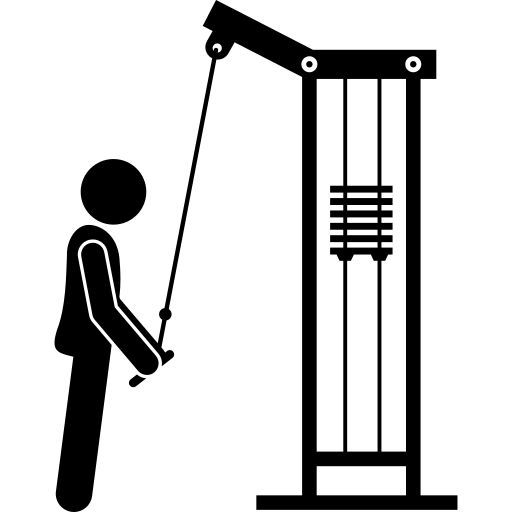
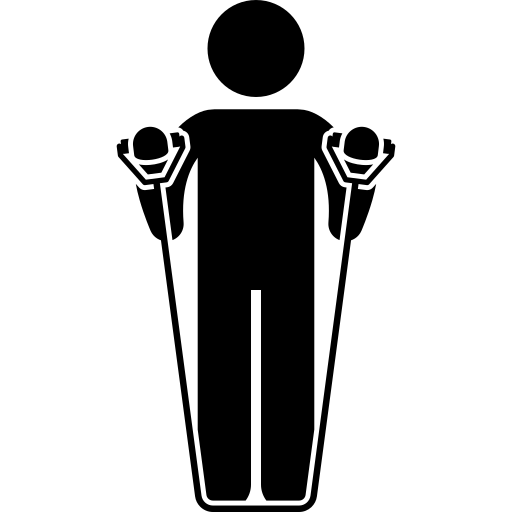
added exercises

diff --git a/index.html b/index.html
@@ -633,20 +633,20 @@
     gap: 2px;
   }
   .sheet-card .last-session {
-    font-size: 9px;
+    font-size: 11px;
     white-space: nowrap;
     overflow: hidden;
     text-overflow: ellipsis;
     max-width: 100%;
   }
   .sheet-card .toggle-btn {
-    font-size: 9px;
+    font-size: 11px;
   }
   .sheet-card .ex-history-expanded {
     padding: 0 10px 8px;
   }
-  .sheet-card .history-row .h-date { font-size: 9px; }
-  .sheet-card .history-row .h-val  { font-size: 9px; }
+  .sheet-card .history-row .h-date { font-size: 11px; }
+  .sheet-card .history-row .h-val  { font-size: 11px; }
 
   /* ── util ── */
   .divider { height: 1px; background: var(--border-lt); margin: 0 20px; }
@@ -1005,7 +1005,7 @@
 ═══════════════════════════════════════════════ */
 const EXERCISES = [
    // ── Chest ──
-  { id: "converging_bench_press", name: "Converging Bench Press", category: "Chest",     icon: "icons/converging_bench_press.png" },
+  { id: "converging_chest_press", name: "Converging Chest Press", category: "Chest",     icon: "icons/converging_bench_press.png" },
   { id: "chest_fly",              name: "Dumbbell Chest Fly",     category: "Chest",     icon: "icons/chest_fly.png" },
   { id: "pec_fly",                name: "Machine Pec Fly",        category: "Chest",     icon: "icons/pec_fly.png" },
   { id: "pushups",                name: "Pushups",                category: "Chest",     icon: "icons/push-up.png",          type: "count" },
@@ -1015,7 +1015,7 @@ const EXERCISES = [
   { id: "seated_row",             name: "Diverging Seated Row",   category: "Back",      icon: "icons/seated-row.png" },
   { id: "back_fly",               name: "Dumbbell Reverse Fly",   category: "Back",      icon: "icons/back_fly.png" },
   // ── Shoulders ──
-  { id: "ohp",                    name: "Diverging Shoulder Press", category: "Shoulders", icon: "icons/shoulder-press.png" },
+  { id: "shoulder_press",                    name: "Converging Shoulder Press", category: "Shoulders", icon: "icons/shoulder-press.png" },
   //{ id: "cable_front_raise",      name: "Cable Front Raise",        category: "Shoulders", icon: "icons/cable_front_raise.png" },
   { id: "cable_punch",            name: "Cable Punch",              category: "Shoulders", icon: "icons/cable_punch.png" },
   // ── Arms ──
@@ -1027,14 +1027,16 @@ const EXERCISES = [
   { id: "leg_press",              name: "Leg Press",              category: "Legs",      icon: "icons/leg-press-machine.png" },
   { id: "outer_thigh",            name: "Outer Thigh",            category: "Legs",      icon: "icons/abductor.png" },
   { id: "inner_thigh",            name: "Inner Thigh",            category: "Legs",      icon: "icons/adductor.png" },
-  { id: "squats",                 name: "Squats",                 category: "Legs",      icon: "icons/squats.png",          type: "count" },
+  { id: "squats",                 name: "Squats",                 category: "Legs",      icon: "icons/squat.png",          type: "count" },
   { id: "lunges",                 name: "Lunges",                 category: "Legs",      icon: "icons/lunges.png",          type: "count" },
+  { id: "weighted_squat",         name: "Weighted Squat",         category: "Legs",      icon: "icons/squats.png",          type: "count" },
   // ── Core ──
   { id: "plank",                  name: "Plank",                  category: "Core",      icon: "icons/plank.png",           type: "timed" },
+  { id: "side_plank",             name: "Side Plank",             category: "Core",      icon: "icons/side-plank.png",           type: "timed" },
   // ── Cardio ──
-  { id: "rowing",                 name: "Rowing",                 category: "Cardio",    icon: "icons/rowing.png",          fields: ["duration", "distance"] },
+  { id: "rowing",                 name: "Rowing",                 category: "Cardio",    icon: "icons/rowing.png",          fields: ["duration", "distance", "rounds"] },
   { id: "elliptical",             name: "Elliptical",             category: "Cardio",    icon: "icons/elliptical.png",      fields: ["duration", "distance"] },
-  { id: "treadmill",              name: "Treadmill",              category: "Cardio",    icon: "icons/treadmill.png",       fields: ["duration", "distance"] },
+  { id: "treadmill",              name: "Treadmill",              category: "Cardio",    icon: "icons/treadmill.png",       fields: ["duration", "distance", "rounds", "notes"] },
   // ── Class ──
   { id: "pilates",                name: "Pilates",                category: "Core",      icon: "icons/pilates.png", "type":"class" },
   { id: "yoga",                   name: "Yoga",                   category: "Core",      icon: "icons/yoga.png", "type":"class" },
@@ -1211,7 +1213,7 @@ function hasData(id) {
   if (!d) return false;
   const ex = exerciseMap[id];
   if (ex && ex.type === 'class') return !!d.done;
-  return !!(d.sets || d.reps || d.weight || d.duration || d.distance);
+  return !!(d.sets || d.reps || d.weight || d.duration || d.distance || d.rounds || d.notes);
 }
 
 function updateCatCount(cat) {
@@ -1233,6 +1235,8 @@ function renderSheetCard(ex, container) {
   const isCount = ex.type === 'count';
   const isClass = ex.type === 'class';
   const hasDistance = Array.isArray(ex.fields) && ex.fields.includes('distance');
+  const hasRounds   = Array.isArray(ex.fields) && ex.fields.includes('rounds');
+  const hasNotes    = Array.isArray(ex.fields) && ex.fields.includes('notes');
 
   const iconHtml = ex.icon.startsWith('http') || ex.icon.startsWith('/') || ex.icon.startsWith('data:') || ex.icon.startsWith('icons/')
     ? `<img src="${ex.icon}" alt="">`
@@ -1244,6 +1248,8 @@ function renderSheetCard(ex, container) {
       const parts = [];
       if (h.duration) parts.push(h.duration);
       if (h.distance) parts.push(`${h.distance}km`);
+      if (h.rounds) parts.push(`${h.rounds}r`);
+      if (h.notes) parts.push(h.notes);
       return parts.length ? parts.join(' · ') : '—';
     }
     if (isCount) {
@@ -1290,7 +1296,7 @@ function renderSheetCard(ex, container) {
         </div>
       </div>`
     : isTimed
-    ? `<div class="exercise-inputs" style="grid-template-columns:${hasDistance ? '1fr 1fr' : '1fr'}">
+    ? `<div class="exercise-inputs" style="grid-template-columns:${[hasDistance, hasRounds].filter(Boolean).length === 2 ? '1fr 1fr 1fr' : (hasDistance || hasRounds) ? '1fr 1fr' : '1fr'}">
         <div class="input-cell">
           <label>Duration</label>
           <input type="text" inputmode="numeric" placeholder="—" data-field="duration" value="${data.duration || ''}" style="font-size:20px">
@@ -1299,7 +1305,15 @@ function renderSheetCard(ex, container) {
           <label>Dist. km</label>
           <input type="number" inputmode="decimal" min="0" step="0.1" placeholder="—" data-field="distance" value="${data.distance || ''}" style="font-size:20px">
         </div>` : ''}
-      </div>`
+        ${hasRounds ? `<div class="input-cell">
+          <label>Rounds</label>
+          <input type="number" inputmode="numeric" min="1" placeholder="—" data-field="rounds" value="${data.rounds || ''}" style="font-size:20px">
+        </div>` : ''}
+      </div>
+      ${hasNotes ? `<div style="padding:4px 8px 6px;border-top:1px solid var(--border-lt)">
+        <input type="text" placeholder="Notes…" data-field="notes" value="${data.notes || ''}"
+          style="width:100%;border:none;background:transparent;font-family:'DM Mono',monospace;font-size:10px;color:var(--ink-2);outline:none;padding:4px 2px;">
+      </div>` : ''}`
     : isCount
     ? `<div class="exercise-inputs" style="grid-template-columns:1fr 1fr">
         <div class="input-cell">
@@ -1517,6 +1531,8 @@ function renderHistory() {
           const parts = [];
           if (e.duration) parts.push(e.duration);
           if (e.distance) parts.push(`${e.distance}km`);
+          if (e.rounds) parts.push(`${e.rounds}r`);
+          if (e.notes) parts.push(e.notes);
           return parts.length ? parts.join(' · ') : '—';
         }
         const parts = [];
@@ -1786,6 +1802,8 @@ function showPeek(session) {
           const parts = [];
           if (e.duration) parts.push(e.duration);
           if (e.distance) parts.push(`${e.distance}km`);
+          if (e.rounds) parts.push(`${e.rounds}r`);
+          if (e.notes) parts.push(e.notes);
           return parts.length ? parts.join(' · ') : '—';
         }
         const parts = [];
